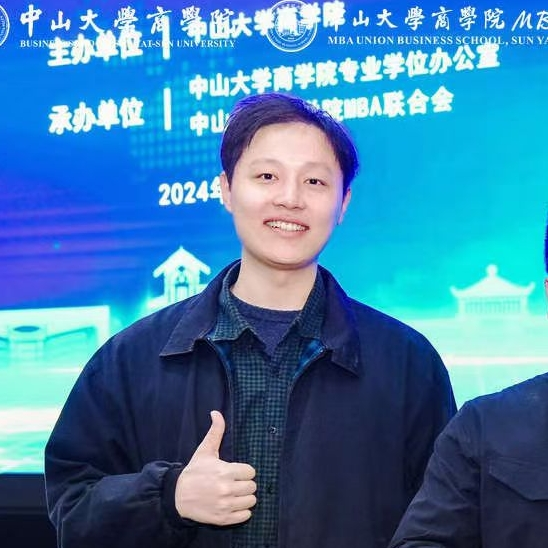
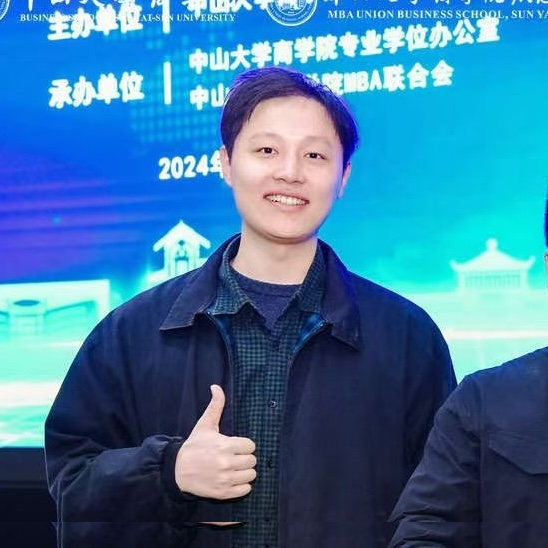
update authors

diff --git a/content/authors/siyang-liu/_index.md b/content/authors/siyang-liu/_index.md
@@ -148,7 +148,7 @@ Associate Professor, Unit of Medical Statistics and Systems Biology, School of P
 ) & [Anders Albrechtsen](http://www.popgen.dk/groupWiki/index.php/Anders_Albrechtsen)
 - 2012/09-2015/04   MSc in Bioinformatics, Bioinformatics Center, University of Copenhagen, Supervisor： Prof. [Anders Krogh](https://research.ku.dk/search/result/?pure=en%2Fpersons%2Fanders-krogh(109cd77e-27eb-47b9-997f-eab877a0f429).html
 )
-- 2007/09-2011/07   BSc in Ecology, Department of Life Science, Sun Yat-sen University
+- 2007/09-2011/07   BSc in Life Science, Department of Life Science, Sun Yat-sen University
 
 
 **Teaching**

diff --git a/content/authors/zijun-wan/_index.md b/content/authors/zijun-wan/_index.md
@@ -10,7 +10,7 @@ authors:
 superuser: false
 
 # Role/position (e.g., Professor of Artificial Intelligence)
-role: PhD student
+role: PhD student in Epidemiology and Health Statistics
 
 # Organizations/Affiliations
 organizations: